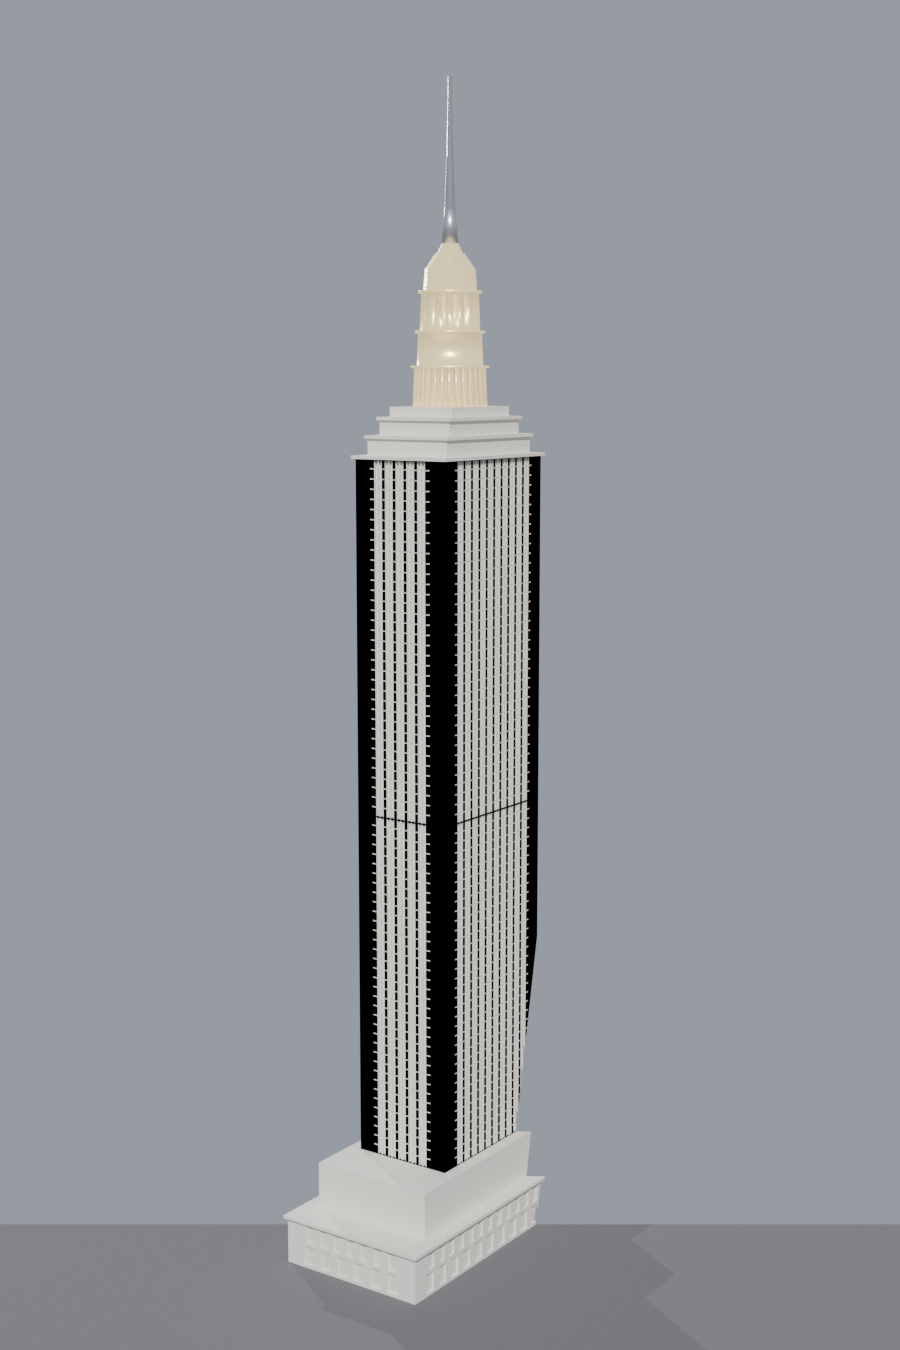
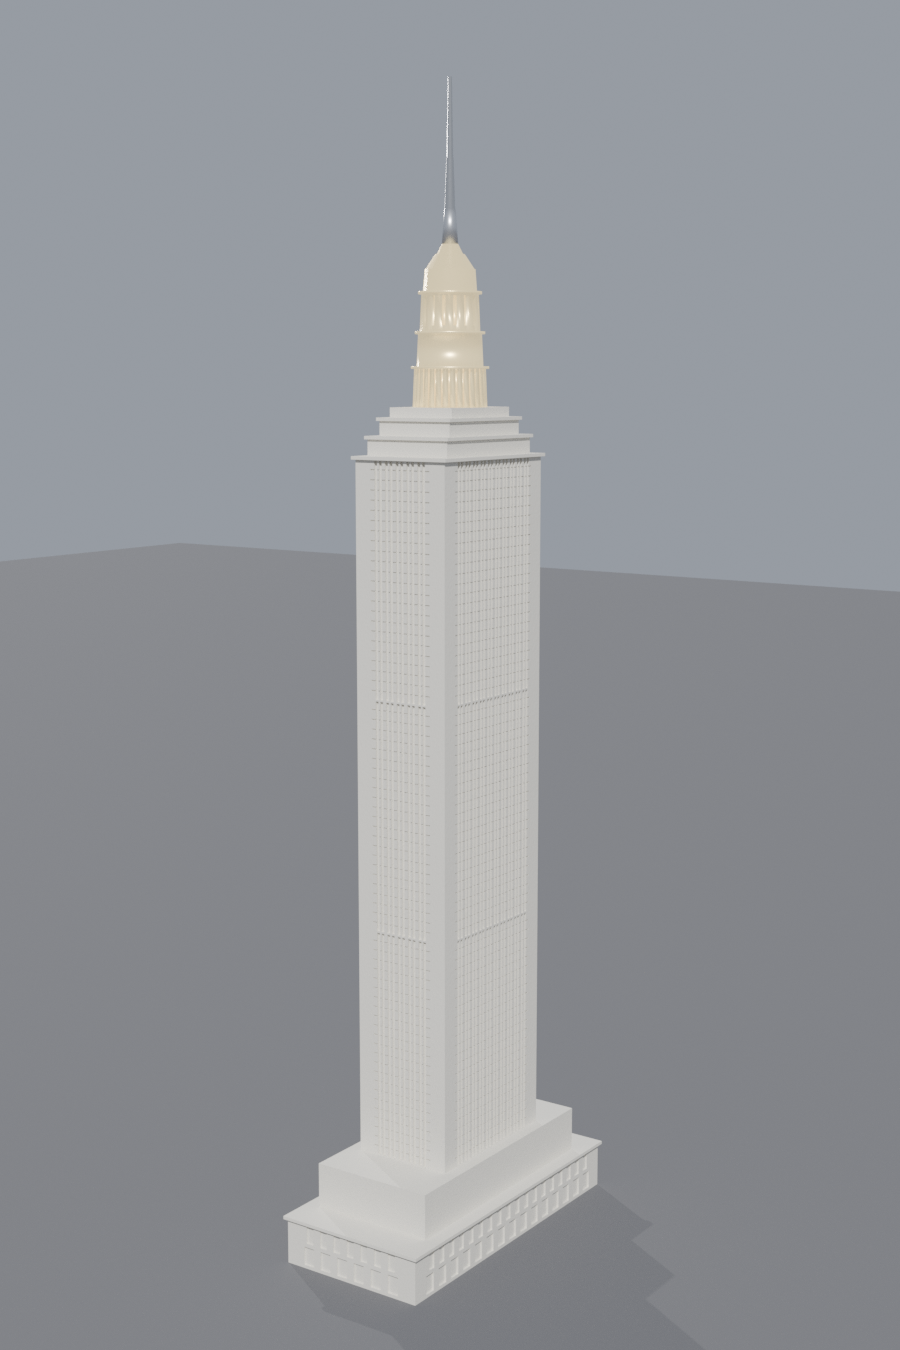
1:500 hero render + print plan; fix camera clip range
Rescaled the render camera for the ~886mm model and set clip_end so the model isn't clipped. Updated README print plan for the 8 at-scale sections (base in 2 dowel-pinned halves, shaft in 3 bands).

Claude-Session: https://claude.ai/code/session_013p1WHz73AzfRywvmzbP4Fo

Changed region(s): [[0.0, 0.3422, 1.0, 0.9333]]

diff --git a/model/render.py b/model/render.py
@@ -84,6 +84,7 @@ def setup_tower(night=False):
 
 def set_cam(loc, target, fov):
     cd = bpy.data.cameras.new("Cam"); cd.angle = math.radians(fov)
+    cd.clip_start = 1.0; cd.clip_end = 1_000_000       # model can sit far from origin
     c = bpy.data.objects.new("Cam", cd); c.location = Vector(loc)
     c.rotation_euler = (Vector(target) - c.location).to_track_quat('-Z', 'Y').to_euler()
     bpy.context.scene.collection.objects.link(c); bpy.context.scene.camera = c
@@ -109,9 +110,6 @@ def panels():
     render("render_panels.png", 1100, 850, 160)
 
 if __name__ == "__main__":
+    # camera framed for the 1:500 model (~886mm tip). Single hero render to save usage.
     setup_tower(night=False)
-    set_cam((545, -775, 440), (0, 0, 291), 39); render("render.png", 900, 1350, 210)
-    set_cam((250, -350, 520), (0, 0, 470), 32); render("render_crown.png", 900, 1100, 200)
-    setup_tower(night=True)
-    set_cam((545, -775, 440), (0, 0, 291), 39); render("render_night.png", 900, 1350, 230)
-    panels()
+    set_cam((830, -1181, 671), (0, 0, 444), 39); render("render.png", 900, 1350, 170)

diff --git a/model/README.md b/model/README.md
@@ -27,23 +27,27 @@ Regenerate: `python3 empire_state_building.py` · Panels: `python3 wall_panels.p
 Render: `blender -b -P render.py`. The repo's SessionStart hook installs OpenSCAD,
 Blender and the Python libs automatically in Claude Code on the web.
 
-## Print plan — solid sections (0.40 mm/ft → ~582 mm / 23″ assembled)
+## Print plan — solid sections (1:500 → ~886 mm / 2'11" assembled, Bambu P1S/P2S)
 
 | # | File | W × D × H (mm) | Filament | Notes |
 |---|------|----------------|----------|-------|
-| 1 | `01_base.stl` | 82.0 × 173.2 × 50.4 | stone grey | arcade + windows + 5th-floor cornice; needs a bed ≥180 mm one axis |
-| 2 | `02_shaft_1of2.stl` | 52.8 × 84 × 178.4 | stone grey | punched window grid; print upright, **no supports** |
-| 3 | `03_shaft_2of2.stl` | 52.8 × 84 × 178.4 | stone grey | print upright |
-| 4 | `04_setbacks.stl` | 56.0 × 87.2 × 27.2 | stone grey | stepped cornices + 86th-fl deck |
-| 5 | `05_crown.stl` | 38.4 × 38.4 × 80.8 | **translucent** | ribbed mast + lantern → LED-backlight showpiece |
-| 6 | `06_spire.stl` | 8.0 × 8.0 × 78.4 | grey | fragile needle — brim it, or swap for a 1 mm rod |
+| 1 | `01_base_N.stl` | 125 × 132 × 77 | stone grey | north half of the base (arcade + cornice) |
+| 2 | `01_base_S.stl` | 125 × 132 × 77 | stone grey | south half — joins base_N with dowel pins at the seam |
+| 3 | `02_shaft_1of3.stl` | 80.5 × 128 × 182.5 | stone grey | punched window grid; print upright, **no supports** |
+| 4 | `03_shaft_2of3.stl` | 80.5 × 128 × 182.5 | stone grey | print upright |
+| 5 | `04_shaft_3of3.stl` | 80.5 × 128 × 182.5 | stone grey | print upright |
+| 6 | `05_setbacks.stl` | 85.3 × 132.9 × 41.5 | stone grey | stepped cornices + 86th-fl deck |
+| 7 | `06_crown.stl` | 58.5 × 58.5 × 123.1 | **translucent** | ribbed mast + lantern → LED-backlight showpiece |
+| 8 | `07_spire.stl` | 12.2 × 12.2 × 119.5 | grey | slim antenna — brim it, or swap for a rod |
 
-`00_full_assembly_preview.stl` = all sections in place, for viewing only.
+Every part fits the 256×256×256 bed. `00_full_assembly_preview.stl` = all sections
+in place, for viewing only. The base halves join along the centre with two 3 mm
+dowel pins (holes are built in).
 
-### Fit to your printer
-Set `MAX_PART_H_MM` at the top of `empire_state_building.py` to your bed height —
-the tower auto-splits into that many stacked bands. The report flags any section
-whose footprint exceeds the bed.
+### Change the scale / bed
+`MM_PER_FT` sets the scale (`304.8/500` = 1:500; `0.40` ≈ 1:762 for a 23″ desk model;
+`304.8/87` = HO 1:87). `MAX_PART_H_MM` is the bed height — the tower auto-splits into
+that many bands, the base auto-splits in plan when its footprint exceeds the bed.
 
 ## Single- vs multi-color
 The real building is essentially one color (Indiana limestone). The only truly
